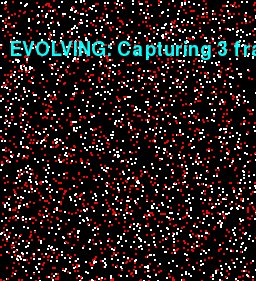
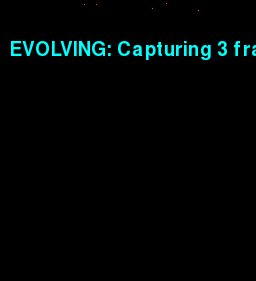
feat: update homography configurations, add new visualizer presets, and suppress terminal logs in main.py

Changed region(s): [[0.0, 0.0, 1.0, 1.0]]

diff --git a/main.py b/main.py
@@ -7,6 +7,12 @@ and launches sub-processes clean of Pygame holds.
 """
 
 import os
+# 1. Mute redundant C++ info/warning logs from MediaPipe & TensorFlow
+os.environ["TF_CPP_MIN_LOG_LEVEL"] = "2"  # 0=All, 1=Filter INFO, 2=Filter INFO/WARNING, 3=Filter ERRORS
+os.environ["GLOG_minloglevel"] = "2"        # Silences MediaPipe internal C++ warnings
+
+# 2. Prevent macOS Objective-C duplicate library warnings (SDL2/Pygame)
+os.environ["OBJC_DISABLE_INITIALIZE_FORK_SAFETY"] = "YES"
 import subprocess
 import sys
 import threading
